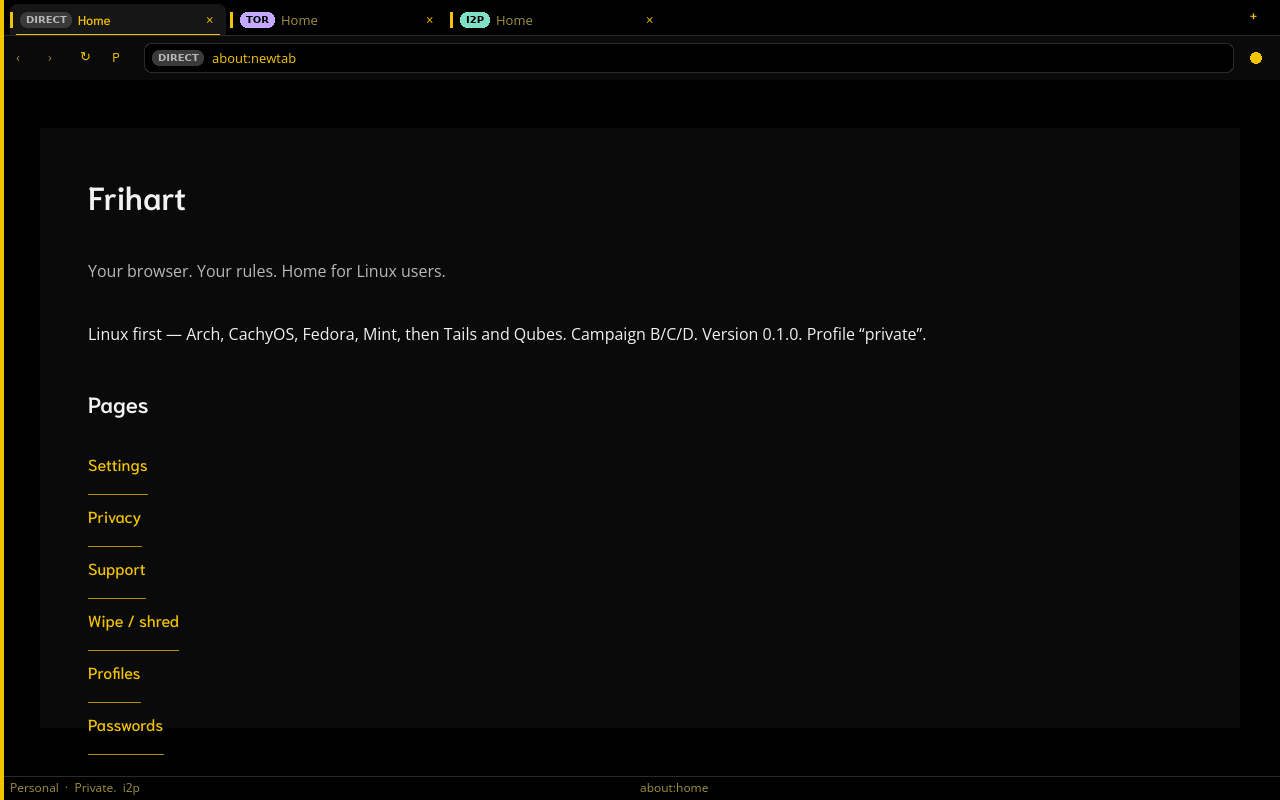
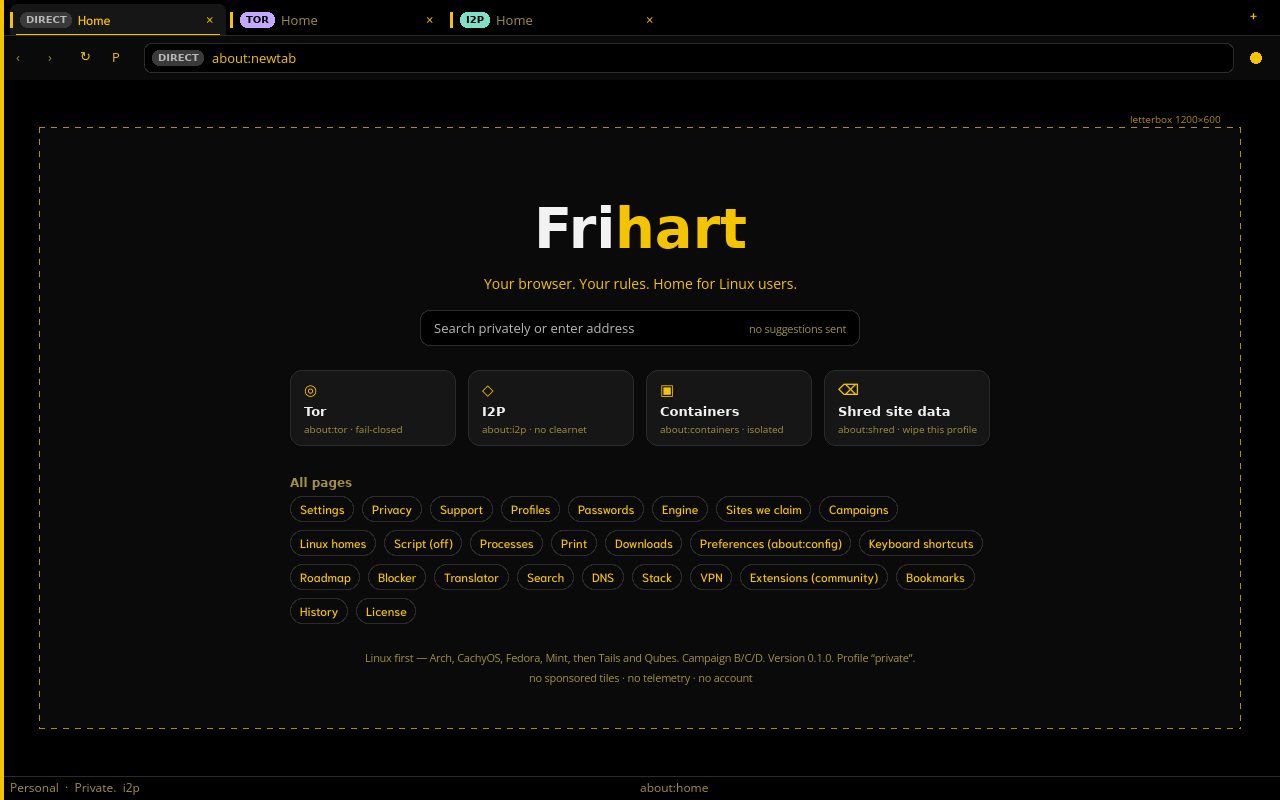
docs: real screenshots for shields, settings, locked-off, home, Tor tab

diff --git a/README.md b/README.md
@@ -27,11 +27,15 @@ HTML subset. JavaScript is off. That is intentional. Read
 ## Screenshots
 
 ### Today (real)
-The real Frihart chrome with the design theme: rounded tabs, a DIRECT / TOR / I2P network pill on every tab and in the URL field, and a fail-closed note in the status bar on Tor/I2P tabs. Rendered headlessly from the real `paint()` code (`FRIHART_SNAPSHOT_DIR=/tmp/fh cargo test -p frihart-chrome design_tests`, then PPM to PNG).
+The real Frihart chrome with the design theme: rounded tabs, a DIRECT / TOR / I2P network pill on every tab and in the URL field, a fail-closed card on Tor/I2P tabs, the dashed letterbox frame with the size the page sees, the shields panel (click the privacy dot), and the restyled home and settings pages. Rendered headlessly from the real `paint()` code (`FRIHART_SNAPSHOT_DIR=/tmp/fh cargo test -p frihart-chrome design_tests`, then PPM to PNG).
 
 | <img src="docs/screenshots/real/frihart-tor-tab.png" alt="Frihart: Tor tab with network pills"/> | <img src="docs/screenshots/real/frihart-new-tab.png" alt="Frihart: new tab page"/> |
 |---|---|
-| Tor tab, fail-closed status | New tab: "Your browser. Your rules. Home for Linux users." |
+| Tor tab: fail-closed card + letterbox frame | New tab: "Your browser. Your rules. Home for Linux users." |
+| <img src="docs/screenshots/real/frihart-shields.png" alt="Frihart: shields panel"/> | <img src="docs/screenshots/real/frihart-settings.png" alt="Frihart: settings"/> |
+| Shields panel, opened by the privacy dot | Settings: pref key on every row, round toggles |
+| <img src="docs/screenshots/real/frihart-settings-forced-off.png" alt="Frihart: locked-off prefs"/> | |
+| Locked off: not a setting (telemetry, Safe Browsing, DRM, stored logins…) | |
 
 ### Design concept (in progress)
 **These are design concepts, not the current browser.** They show where the chrome is going; every setting and shield shown exists in the code today. See [docs/DESIGN.md](docs/DESIGN.md).
